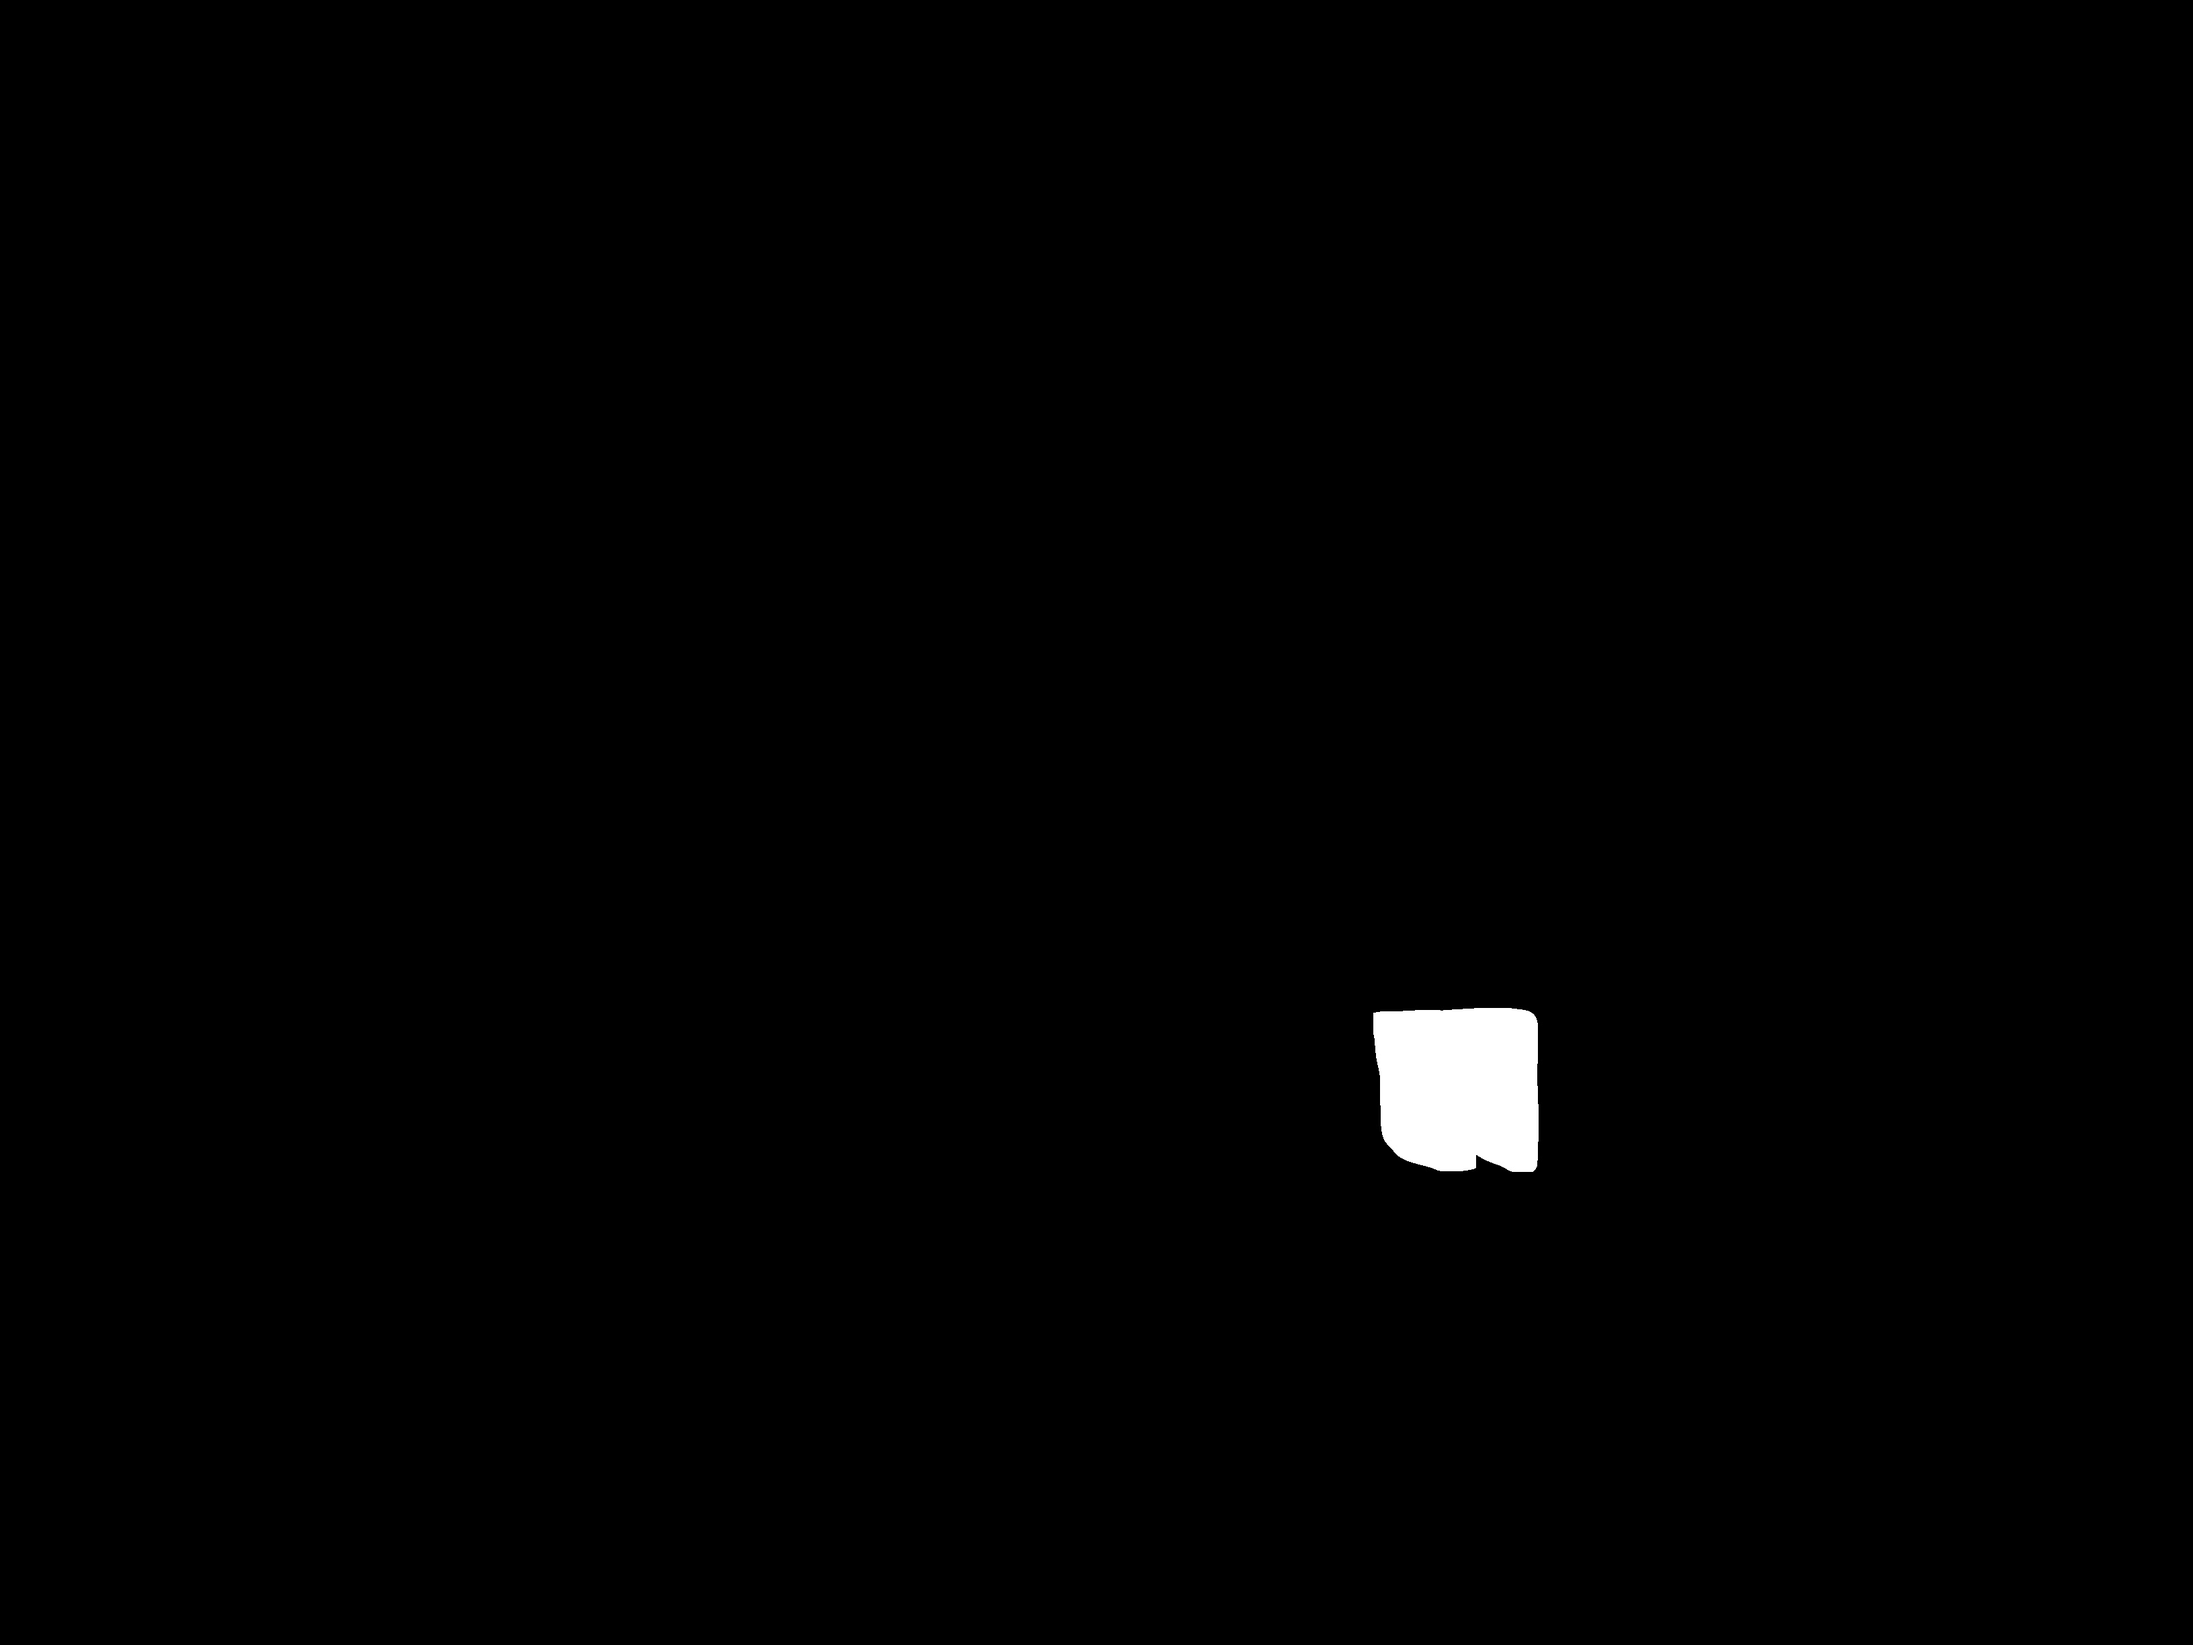
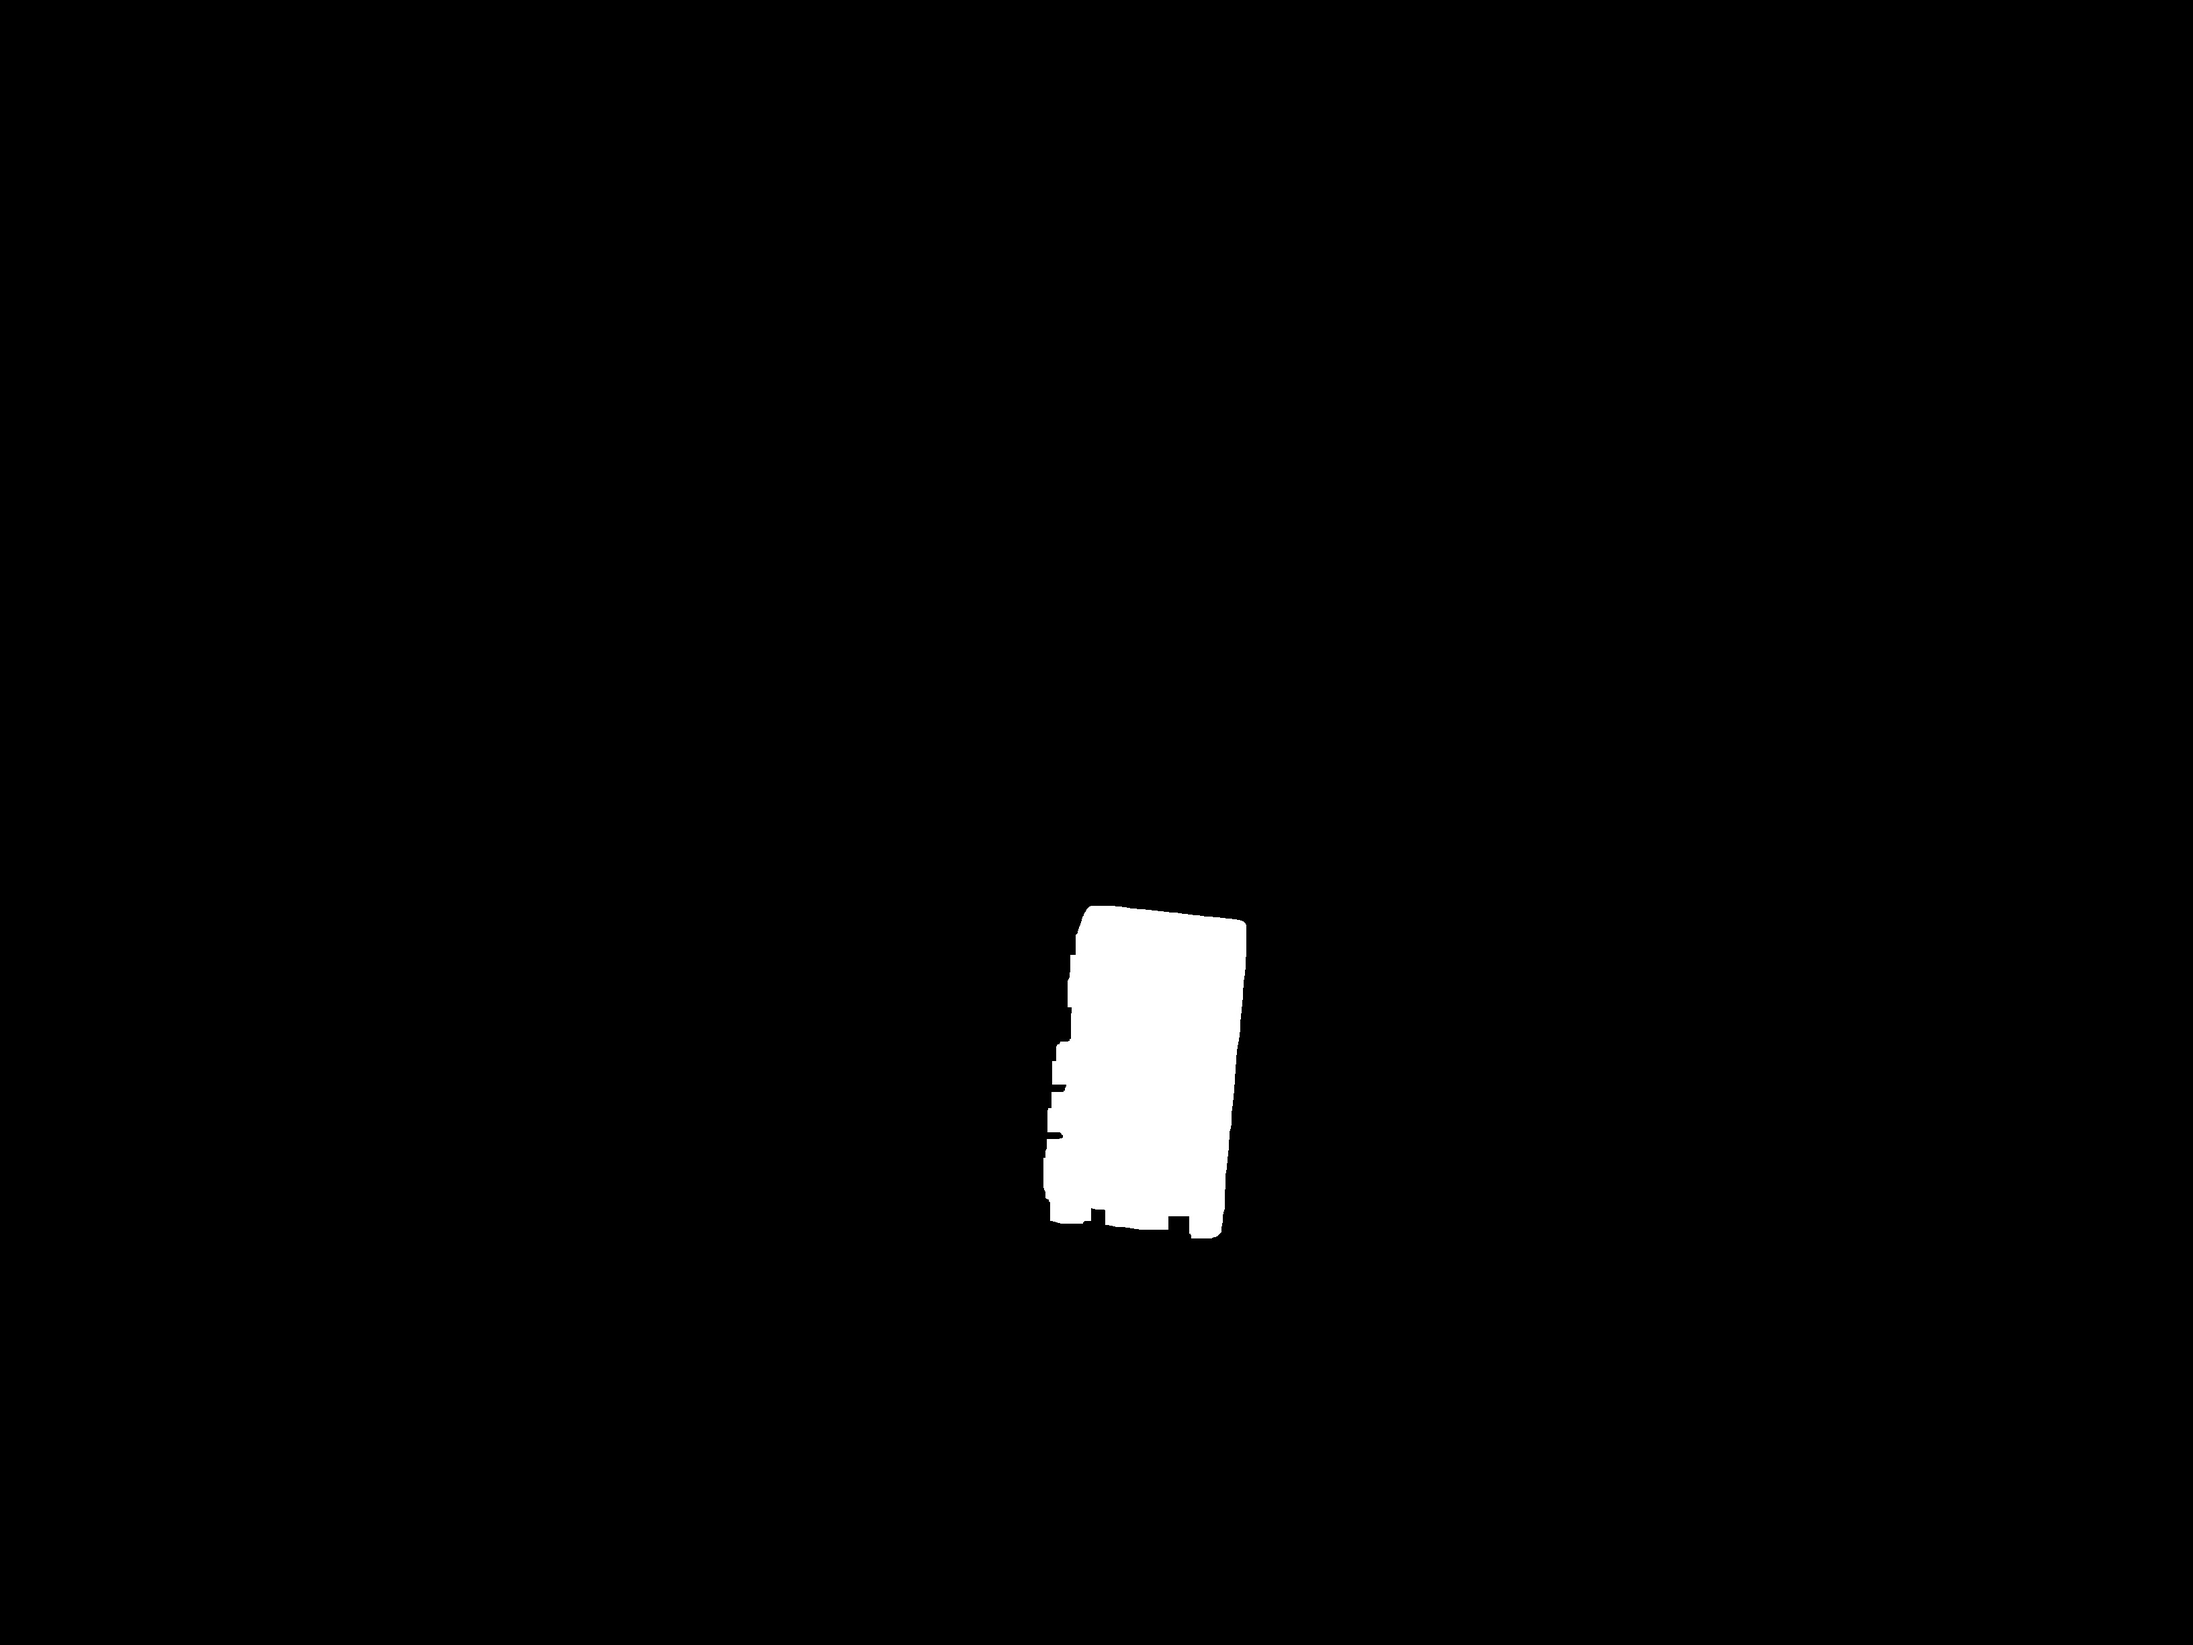
Added some stuff to find the area of the legos

Changed region(s): [[0.4688, 0.5278, 0.5938, 0.7761], [0.625, 0.5899, 0.7188, 0.7141]]

diff --git a/color_seg/main.cpp b/color_seg/main.cpp
@@ -9,22 +9,128 @@
 #include <opencv2/video.hpp>
 #include <unistd.h>
 
-void process_img(cv::Mat& src, int low[], int high[], int k_erosion=5, int k_dilation=21, int erosion_iterations = 5, int dilation_iterations = 3)
+
+
+// // Red params
+int low_red[] = {20, 0, 0};    
+int high_red[] = {180, 255, 255};
+// int k_erode = 5;
+// int k_dilate = 11;
+// int erosion_iterations = 5;
+// int dilation_iterations = 2;
+
+// // Yellow params
+int low_yellow[] = {10, 70, 0};    
+int high_yellow[] = {30, 255, 255};
+// int k_erode = 5;
+// int k_dilate = 11;
+// int erosion_iterations = 5;
+// int dilation_iterations = 2;
+
+// // Blue params
+int low_blue[] = {100, 120, 0};    
+int high_blue[] = {140, 255, 255};
+// int k_erode = 5;
+// int k_dilate = 11;
+// int erosion_iterations = 5;
+// int dilation_iterations = 2;
+
+cv::RNG rng(12345);
+
+const int max_H_value = 360/2;
+const int max_S_value = 255;
+const int max_V_value = 255;
+
+int low_H = 0;
+int high_H = max_H_value;
+int low_S = 0;
+int high_S = max_S_value;
+int low_V = 0;
+int high_V = max_V_value;
+int kernel_size_erosion = 1;
+int kernel_max_erosion = 29;
+int kernel_size_dilation = 1;
+int kernel_max_dilation = 29;
+
+const char* window_original_name = "Original Image";
+const char* window_processed_name = "Processed Image";
+const char* window_eroded_name = "Eroded";
+const char* window_dilated_name = "Eroded";
+
+const char* trackerbar_low_H_name = "Low H value";
+const char* trackerbar_high_H_name = "High H value";
+const char* trackerbar_low_S_name = "Low S value";
+const char* trackerbar_high_S_name = "High S value";
+const char* trackerbar_low_V_name = "Low V value";
+const char* trackerbar_high_V_name = "High V value";
+const char* trackerbar_erosion_kernel_size = "Kernel Size Erosion";
+const char* trackerbar_dilation_kernel_size = "Kernel Size Dilation";
+
+
+cv::Mat src_hsv;
+cv::Mat dst;
+cv::Mat eroded;
+cv::Mat dilated;
+
+static void on_low_H_thresh_trackbar(int, void *)
 {
-    int filter_size = 51;
+    low_H = std::min(high_H-1, low_H);
+    cv::setTrackbarPos("Low H", window_processed_name, low_H);
+}
+static void on_high_H_thresh_trackbar(int, void *)
+{
+    high_H = std::max(high_H, low_H+1);
+    cv::setTrackbarPos("High H", window_processed_name, high_H);
+}
+static void on_low_S_thresh_trackbar(int, void *)
+{
+    low_S = std::min(high_S-1, low_S);
+    cv::setTrackbarPos("Low S", window_processed_name, low_S);
+}
+static void on_high_S_thresh_trackbar(int, void *)
+{
+    high_S = std::max(high_S, low_S+1);
+    cv::setTrackbarPos("High S", window_processed_name, high_S);
+}
+static void on_low_V_thresh_trackbar(int, void *)
+{
+    low_V = std::min(high_V-1, low_V);
+    cv::setTrackbarPos("Low V", window_processed_name, low_V);
+}
+static void on_high_V_thresh_trackbar(int, void *)
+{
+    high_V = std::max(high_V, low_V+1);
+    cv::setTrackbarPos("High V", window_processed_name, high_V);
+}
+
+void process_img(cv::Mat& src, int low[], int high[], int k_erosion=5, int k_dilation=5, int erosion_iterations = 5, int dilation_iterations = 5)
+{
+    int filter_size = 9;
     cv::Mat src_hsv;
     cv::GaussianBlur(src, src, cv::Size(filter_size, filter_size), 0);
     cv::cvtColor(src, src_hsv, cv::COLOR_BGR2HSV);
     cv::Mat dst;
     cv::inRange(src_hsv, cv::Scalar(low[0], low[1], low[2]), cv::Scalar(high[0], high[1], high[2]), dst);
-    cv::Mat structuring_element_erosion = cv::getStructuringElement(cv::MORPH_RECT, cv::Size(k_erosion, k_erosion));
-    cv::Mat structuring_element_dilation = cv::getStructuringElement(cv::MORPH_RECT, cv::Size(k_dilation, k_dilation));
-    cv::erode(dst, dst, structuring_element_erosion, cv::Point(-1, -1), 5);    
-    cv::dilate(dst, dst, structuring_element_dilation, cv::Point(-1, -1), 3);
+    cv::Mat structuring_element_erosion = cv::getStructuringElement(cv::MORPH_ELLIPSE, cv::Size(k_erosion, k_erosion));
+    cv::Mat structuring_element_dilation = cv::getStructuringElement(cv::MORPH_ELLIPSE, cv::Size(k_dilation, k_dilation));
+    cv::dilate(dst, dst, structuring_element_dilation, cv::Point(-1, -1), dilation_iterations);
+    cv::erode(dst, dst, structuring_element_erosion, cv::Point(-1, -1), erosion_iterations);    
+    // cv::dilate(dst, dst, structuring_element_dilation, cv::Point(-1, -1), 3);
 
     src = dst;
 }
 
+
+bool is_yellow_brick(cv::Mat yellow_img)
+{
+    for (int i = 0; i < yellow_img.rows; i++)
+    {
+        for (int j = 0; j < yellow_img.cols; j++)
+        {
+            return -1;
+        }
+    }
+}
 
 int main(int argc, char** argv)
 {
@@ -40,30 +146,6 @@ int main(int argc, char** argv)
     //     images.push_back(cv::imread(fn[i], cv::IMREAD_COLOR));
 
 
-    // // Red params
-    // // int low[] = {160, 120, 120};    
-    // // int high[] = {180, 255, 255};
-    // // int k_erode = 5;
-    // // int k_dilate = 11;
-    // // int erosion_iterations = 5;
-    // // int dilation_iterations = 2;
-
-    // // Yellow params
-    // // int low[] = {10, 70, 150};    
-    // // int high[] = {30, 255, 255};
-    // // int k_erode = 5;
-    // // int k_dilate = 11;
-    // // int erosion_iterations = 5;
-    // // int dilation_iterations = 2;
-
-    // // Blue params
-    // int low[] = {100, 120, 120};    
-    // int high[] = {140, 255, 255};
-    // int k_erode = 5;
-    // int k_dilate = 11;
-    // int erosion_iterations = 5;
-    // int dilation_iterations = 2;
-
     // for (size_t i=0; i< images.size(); i++)
     // {
     //     if (images[i].empty())
@@ -74,19 +156,27 @@ int main(int argc, char** argv)
     //         }
 
         
-    //     process_img(images[i], low, high, k_erode, k_dilate, erosion_iterations, dilation_iterations);
+    //     process_img(images[i], low_red, high_red); //, k_erode, k_dilate, erosion_iterations, dilation_iterations);
     //     std::string dst_path = "../processed_images/" + std::to_string(i+1);
     //     cv::imwrite(dst_path + ".jpg", images[i]);
     //     std::cout << dst_path << std::endl;
 
     // }
 
+    cv::namedWindow(window_original_name, cv::WINDOW_NORMAL);
+    cv::namedWindow(window_processed_name, cv::WINDOW_NORMAL);
+
+    // cv::createTrackbar(trackerbar_low_H_name, window_processed_name, &low_H, max_H_value, on_low_H_thresh_trackbar);
+    // cv::createTrackbar(trackerbar_high_H_name, window_processed_name, &high_H, max_H_value, on_high_H_thresh_trackbar);
+    // cv::createTrackbar(trackerbar_low_S_name, window_processed_name, &low_S, max_S_value, on_low_S_thresh_trackbar);
+    // cv::createTrackbar(trackerbar_high_S_name, window_processed_name, &high_S, max_S_value, on_high_S_thresh_trackbar);
+    // cv::createTrackbar(trackerbar_low_V_name, window_processed_name, &low_V, max_V_value, on_low_V_thresh_trackbar);
+    // cv::createTrackbar(trackerbar_high_V_name, window_processed_name, &high_V, max_V_value, on_high_V_thresh_trackbar);
+
+
 
     cv::VideoCapture vcap;
 
-    // std::cout << vcap.open(10.42.0.96:8000/index.html/?action=stream?dummy=param.mjpg) << std::endl;
-
-    // if(!vcap.open("http://@10.42.0.96:8000"))
     auto capture = vcap.open("http://10.42.0.96:8000/stream.mjpg");
     if (!capture)
     {
@@ -94,18 +184,70 @@ int main(int argc, char** argv)
         return EXIT_FAILURE;
     }
 
-
     cv::Mat frame;
-
-
+    cv::Mat src, red_img, yellow_img, blue_img;
+    // x 150-500
+    // y 60-360
+    cv::Range rows(60, 360);
+    cv::Range cols(150, 500);
     while(capture)
     {
-        std::cout << "Finally.." << std::endl;
+        // std::cout << "Finally.." << std::endl;
         vcap.read(frame);
-        cv::cvtColor(frame, frame, cv::COLOR_BGR2GRAY);
-        cv::threshold(frame, frame, 150, 255, 0);
-        cv::imwrite("/home/mohamed/Desktop/frame.png", frame);
-        usleep(3000);
+        frame = frame(rows, cols);
+        src = frame.clone();
+        red_img = frame.clone();
+        yellow_img = frame.clone();
+        blue_img = frame.clone();
+        int low_new[] = {low_H, low_S, low_V};
+        int high_new[] = {high_H, high_S, high_V};
+        process_img(red_img, low_red, high_red); // , k_erode, k_dilate, erosion_iterations, dilation_iterations);
+        bitwise_not(red_img, red_img);
+        process_img(yellow_img, low_yellow, high_yellow);
+        process_img(blue_img, low_blue, high_blue);
+        
+        cv::bitwise_or(red_img, yellow_img, frame);
+        cv::bitwise_or(frame, blue_img, frame);
+        
+        // Cotours
+        cv::Mat canny_output;
+        int thresh = 50;
+        cv::Canny( frame, canny_output, thresh, thresh*2, 3 );
+        std::vector<std::vector<cv::Point> > contours;
+        std::vector<cv::Vec4i> hierarchy;
+        cv::findContours( canny_output, contours, hierarchy, cv::RETR_TREE, cv::CHAIN_APPROX_SIMPLE, cv::Point(0, 0) );
+        cv::minAreaRect(contours);
+        
+        /// Draw contours
+        cv::Mat drawing = cv::Mat::zeros( canny_output.size(), CV_8UC3 );
+        for( int i = 0; i< contours.size(); i++ )
+            {
+            cv::Scalar color = cv::Scalar(rng.uniform(0, 255), rng.uniform(0,255), rng.uniform(0,255) );
+            drawContours( drawing, contours, i, color, 2, 8, hierarchy, 0, cv::Point() );
+            }
+
+
+        // Display
+        cv::imshow(window_original_name, src);
+        cv::resizeWindow (window_original_name, 600, 600);
+        cv::moveWindow (window_original_name, 0, 0);
+
+        cv::imshow(window_processed_name, frame);
+        cv::resizeWindow (window_processed_name, 600, 600);
+        cv::moveWindow (window_processed_name, 700, 0);
+
+        /// Show in a window
+        cv::namedWindow( "Contours", CV_WINDOW_AUTOSIZE );
+        cv::imshow( "Contours", drawing );
+
+
+        char key = (char) cv::waitKey(30);
+        if (key == 'q' || key == 27)
+        {
+            break;
+        }
+        // cv::imwrite("/home/mohamed/Desktop/frame.png", frame);
+        // usleep(3000);
     }
     
 
